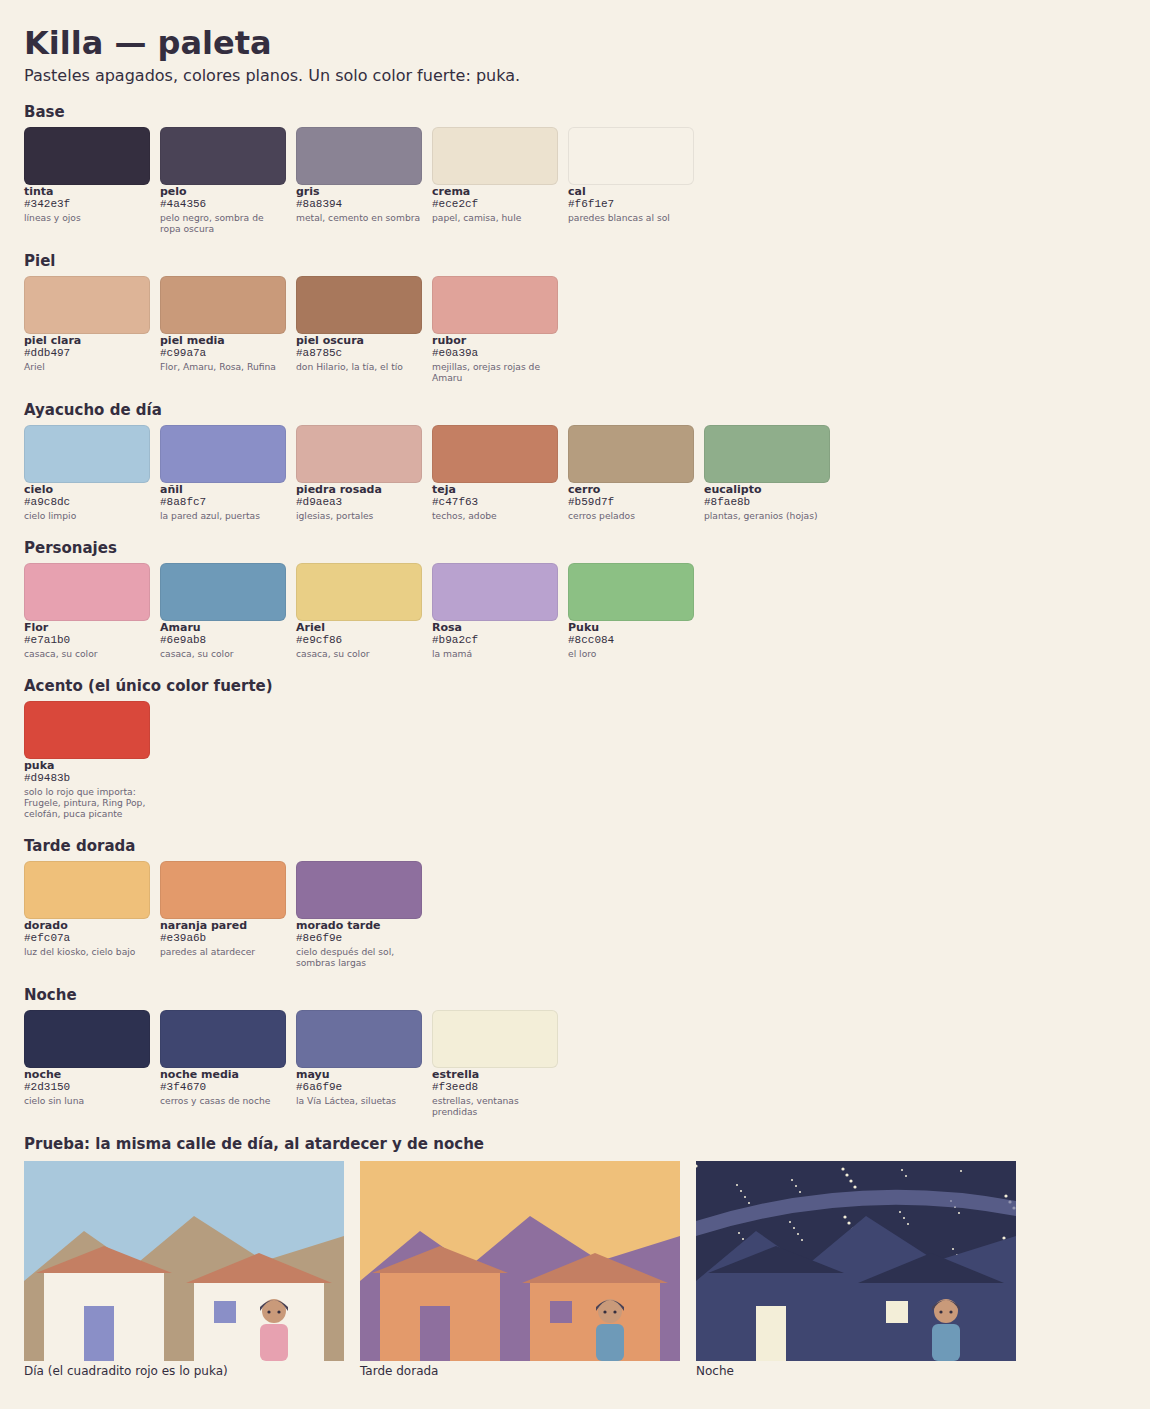
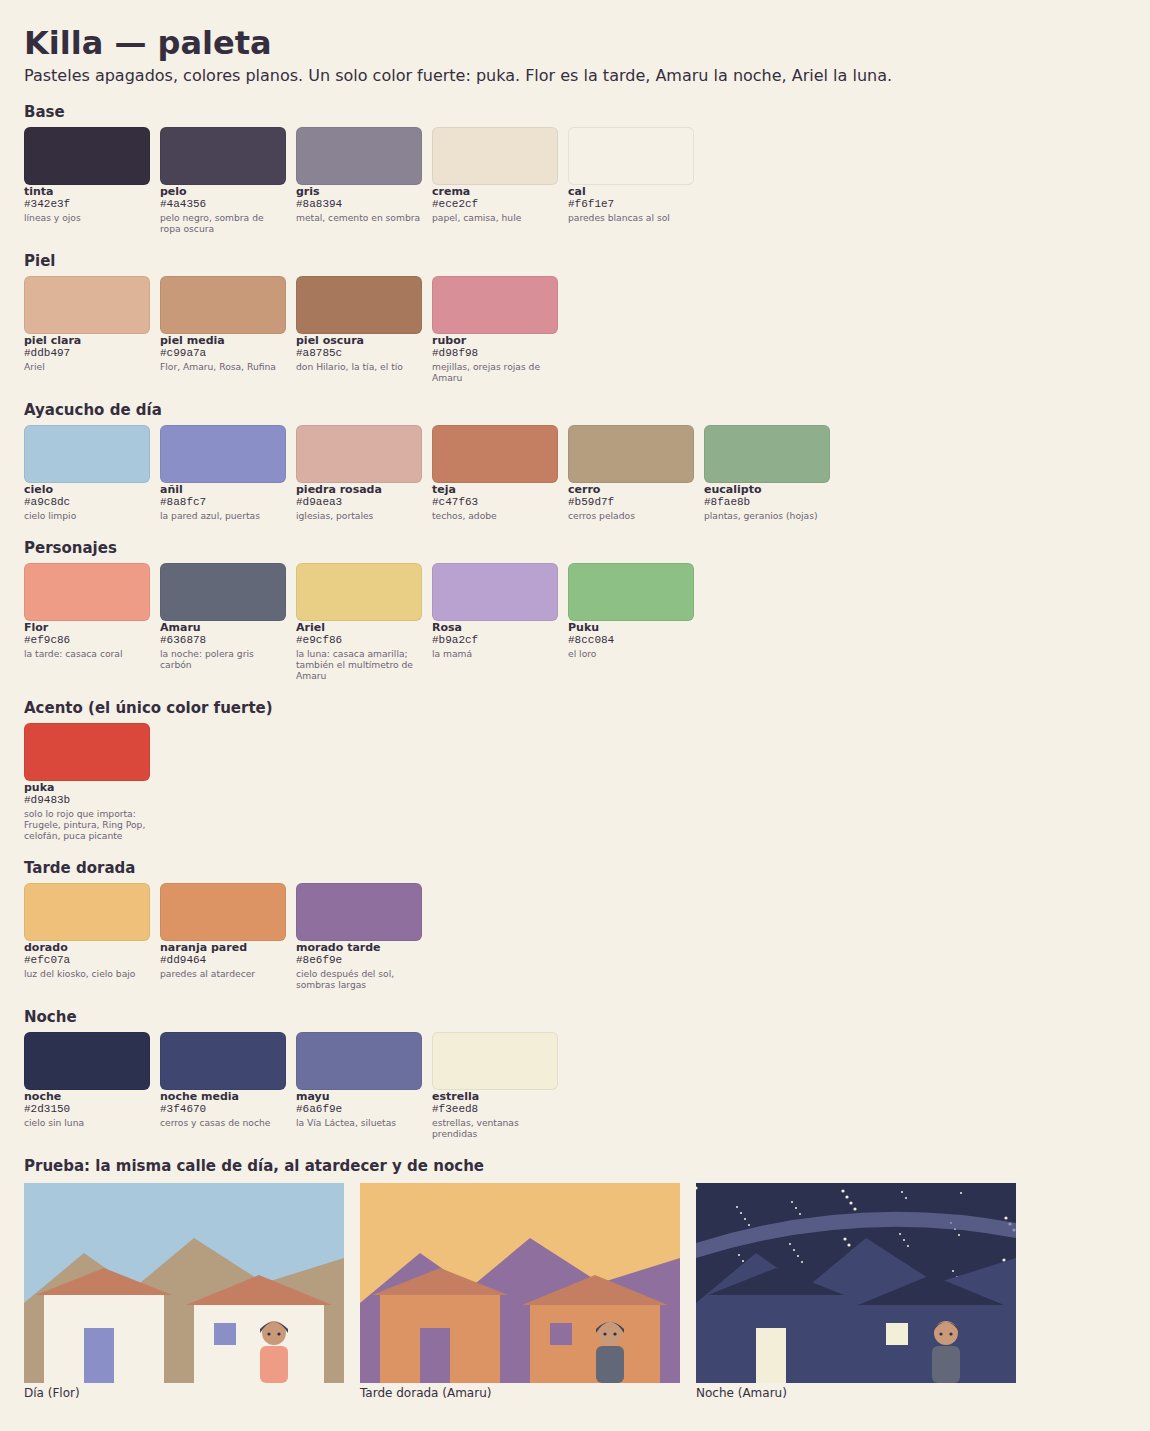
Diseño: Flor coral (la tarde), Amaru gris carbón (la noche), Ariel amarillo (la luna)
- Paleta actualizada (Flor, Amaru, rubor y naranja pared).
- Fichas de Flor y Amaru con rasgos fijos nuevos: cola alta, casaca con
  franjas, bolsa con flor bordada; polera con canguro, multímetro, curita.
- Colores de nombre en el diálogo y en el mapa actualizados.

diff --git a/js/datos/personajes.js b/js/datos/personajes.js
@@ -9,8 +9,8 @@
 // =====================================================================
 const PERSONAJES = {
   ariel:    { nombre: 'Ariel',        color: '#f2d16b', tono: 320, onda: 'square' },
-  flor:     { nombre: 'Flor',         color: '#ff8fb1', tono: 520, onda: 'square' },
-  amaru:    { nombre: 'Amaru',        color: '#7fb3ff', tono: 190, onda: 'triangle', velocidad: 34 },
+  flor:     { nombre: 'Flor',         color: '#ffa58c', tono: 520, onda: 'square' },
+  amaru:    { nombre: 'Amaru',        color: '#aab3c6', tono: 190, onda: 'triangle', velocidad: 34 },
   mama:     { nombre: 'Mamá',         color: '#c9a2ff', tono: 380, onda: 'sine' },
   puku:     { nombre: 'Puku',         color: '#5ad65a', tono: 900, onda: 'sawtooth', velocidad: 18 },
   hilario:  { nombre: 'Don Hilario',  color: '#b0a080', tono: 150, onda: 'triangle', velocidad: 40 },

diff --git a/js/datos/mapas.js b/js/datos/mapas.js
@@ -91,8 +91,8 @@ const MAPAS = {
       { id: 'salida', x: 10, y: 14, ancho: 4, alto: 1, color: '#222', etiqueta: '↓ al kiosko', pisar: true, ir: 'kiosko_barrio' },
     ],
     personajes: [
-      { id: 'flor', x: 8, y: 7, color: '#ff8fb1', etiqueta: 'Flor', sprite: 'assets/img/sprites/flor.png', accion: 'casa_flor' },
-      { id: 'amaru', x: 18, y: 9, color: '#7fb3ff', etiqueta: 'Amaru', sprite: 'assets/img/sprites/amaru.png', accion: 'casa_amaru' },
+      { id: 'flor', x: 8, y: 7, color: '#ef9c86', etiqueta: 'Flor', sprite: 'assets/img/sprites/flor.png', accion: 'casa_flor' },
+      { id: 'amaru', x: 18, y: 9, color: '#636878', etiqueta: 'Amaru', sprite: 'assets/img/sprites/amaru.png', accion: 'casa_amaru' },
     ],
   },
 };

diff --git a/FICHAS-DE-PERSONAJE.md b/FICHAS-DE-PERSONAJE.md
@@ -29,7 +29,8 @@ Regla del encuadre del busto (220 × 260): la cabeza en el tercio superior, homb
 ## ARIEL (jugador) — `ariel`
 
 - 18 años, limeño, hijo único, sabático, postulando a EE. UU. Palabras: **observador, nervioso, con humor callado**.
-- Rasgos fijos: casaca (la que "los hace pensar que es gringo"), celular en la mano, botella de agua del kiosko en varias escenas, cara redonda "de Ayacucho" con corte y ropa de Lima. Color de acento del juego: `#f2d16b`.
+- Rasgos fijos: casaca (la que "los hace pensar que es gringo"), celular en la mano, botella de agua del kiosko en varias escenas, cara redonda "de Ayacucho" con corte y ropa de Lima.
+- Color: **la luna**. Casaca amarilla `#e9cf86` (paleta en `arte/paleta/`). En el diálogo su nombre va en `#f2d16b`.
 - Base: postura recta pero rígida, como quien no sabe dónde poner las manos. Ojos grandes: es el que mira.
 - Tics: juntar los dedos índice (tu idea, va en `nervioso`), inclinarse hacia adelante cuando quiere saber algo, mano en el pecho cuando se asusta.
 - NO hace: gestos grandes. Sus emociones son chicas; la cámara está en su cabeza.
@@ -50,7 +51,15 @@ Regla del encuadre del busto (220 × 260): la cabeza en el tercio superior, homb
 ## FLOR — `flor` (Flor Miski María Quispe Ccori)
 
 - 19, ayacuchana, entra a la PUCP en marzo. Palabras: **expansiva, maestra, chismosa con cariño**.
-- Rasgos fijos: casaca rosada con el **cierre a medio subir** (siempre a la misma altura), pelo negrísimo, misma forma de cara que Amaru, "sonríe con toda la cara". Acento `#ff8fb1`.
+- Color: **la tarde**. Coral apagado `#ef9c86`, no rosa (rosa y azul con Amaru se leía cursi). Su momento es la azotea al atardecer. En el diálogo su nombre va en `#ffa58c`.
+- Rasgos fijos (5, no más: se redibujan en cada busto):
+  1. **Cola alta**, pelo negrísimo. Se mueve: en `risa` y `sorpresa` puede inclinarse o saltar sin redibujar la cabeza.
+  2. **Casaca deportiva coral con franjas a los costados** (franjas color `crema`), con el **cierre a medio subir** (siempre a la misma altura).
+  3. **Mangas largas y un poco grandes**: esconde las manos en `flor_rojo` y se seca la cara con la manga en la azotea.
+  4. **Bolsa de tela** con las cosas para grabar el video (celular, el "trípode que es una barra de plástico"), con **una flor bordada**. Es su accesorio de flor: chiquito, no una flor en el pelo.
+  5. Misma forma de cara que Amaru; "sonríe con toda la cara".
+- Abajo: **jeans y botines** (hace frío; de noche, dos grados). Solo se ven en el sprite y en los cuadros; los bustos se cortan en la cintura, así que no le gastes tiempo.
+- Nada de trenzas por ahora: el arco de Flor es su miedo a que en Lima le digan "chola", y las trenzas cargan ese estereotipo antes de que ella hable. Si aparecen, que sea a propósito (la abuelita, un recuerdo).
 - Base: el cuerpo nunca está derecho: cadera a un lado, cabeza ladeada. Ocupa espacio.
 - Tics: agarrarte del brazo, dedo índice pedagógico, taparse la boca con las dos manos.
 - NO hace: quedarse quieta ni mirar al piso (eso es de Amaru; solo lo hace en `molesto` a propósito, copiándolo).
@@ -73,7 +82,15 @@ Regla del encuadre del busto (220 × 260): la cabeza en el tercio superior, homb
 ## AMARU — `amaru` (Jorge Amaru Jesús Quispe Ccori)
 
 - 17 (18 en noviembre), academia, va a postular a electrónica aunque diga que no. Palabras: **seco, preciso, tímido que se pone rojo**.
-- Rasgos fijos: polera negra, **manos en los bolsillos** (es su rasgo número uno: en la mayoría de bustos las manos no se ven), pelo negrísimo, orejas visibles (para ponerlas rojas). Acento `#7fb3ff`.
+- Color: **la noche**. Gris carbón `#636878`: contrasta con el coral de Flor en vez de hacer pareja rosa/azul. Su ruta es el parque y las estrellas. En el diálogo su nombre va en `#aab3c6`.
+- Rasgos fijos (5):
+  1. **Polera gris carbón con capucha y bolsillo canguro**, **manos en el bolsillo** (su rasgo número uno: en la mayoría de bustos las manos no se ven, que es lo más caro de dibujar).
+  2. **El multímetro amarillo** (el aparato con que mide si un cable tiene corriente) asomando del bolsillo: "se cuelga el multímetro al bolsillo". Es el único punto de color vivo en su ropa, y usa el amarillo de Ariel.
+  3. **Una curita en un dedo**: quien suelda se quema las yemas con el cautín. Se ve cuando saca la mano (`seria`, `rojo`, `facepalm`). En la nariz o la mejilla se leería como "el chico peleador", y Amaru no pelea.
+  4. Pelo negrísimo, un poco desordenado; **orejas visibles** (para ponerlas rojas).
+  5. Misma forma de cara que Flor, con las cejas más rectas y la boca más chica.
+- Abajo: **buzo (jogger) y zapatillas gastadas** tipo Converse. No jean rasgado: Amaru no piensa en su ropa, y el buzo es para agacharse con el cable. Solo se ve en el sprite y en los cuadros.
+- Sin guantes. Si te gustan, solo como detalle de noche en el parque, por el frío.
 - Base: hombros un poco encogidos, mirando al piso, boca recta. Se comunica con la cabeza y las cejas, no con los brazos.
 - Tics: pasarse la mano por la nuca, ponerse rojo hasta las orejas, resoplar por la nariz.
 - NO hace: sonreír con toda la boca (su sonrisa es "media, en una esquina, detrás de tres puertas"). No abre los brazos.
@@ -89,6 +106,7 @@ Regla del encuadre del busto (220 × 260): la cabeza en el tercio superior, homb
 | `amaru_sorpresa` | cabeza levantada rápido, cejas arriba, boca entreabierta, manos saliendo de los bolsillos |
 | extra `amaru_facepalm` | **las dos manos por la cara** (tu idea; "se pasa las dos manos por la cara y las deja ahí un momento") |
 | extra `amaru_espaldas` | de espaldas, sin entrar a la casa: solo nuca y hombros, orejas rojas asomando |
+| extra `amaru_estano` | igual que `neutral` pero con **una mancha negra en la mejilla** y el pelo parado de un lado ("es humo de estaño"): el patio de la ruta de Flor |
 | extra `amaru_risa` | echado para atrás, risa "oxidada" con la boca abierta: la única vez que se ríe fuerte (la pizza con piña). Guárdala para ese momento |
 
 ## Secundarios (un busto base y una o dos variaciones)

diff --git a/LISTA-DE-ARTE.md b/LISTA-DE-ARTE.md
@@ -24,7 +24,7 @@ Reglas que sirven en los dos casos:
 
 - **PNG con fondo transparente** para bustos y sprites. Fondos y cuadros pueden ser PNG o JPG.
 - **Dibuja al doble (2×) y exporta al tamaño final** si es línea: 440 × 520 para un busto, 1920 × 1200 para un fondo. Si es pixel, dibuja al tamaño exacto y NO reescales con suavizado.
-- Paleta chica y compartida entre personajes (8–16 colores) para que Flor, Amaru y Ariel parezcan del mismo mundo. Colores base que ya usa el juego para las etiquetas (cámbialos en `personajes.js` si quieres): Ariel `#f2d16b`, Flor `#ff8fb1`, Amaru `#7fb3ff`, Mamá `#c9a2ff`, Puku `#5ad65a`.
+- Paleta chica y compartida entre personajes para que Flor, Amaru y Ariel parezcan del mismo mundo: está en `arte/paleta/` (muestras en PNG, `killa.swatches` para Procreate, `killa.gpl` para Krita, GIMP y Aseprite). Flor es la tarde (coral `#ef9c86`), Amaru la noche (gris carbón `#636878`), Ariel la luna (amarillo `#e9cf86`). Los nombres en el diálogo usan versiones más claras para leerse sobre la caja negra: Ariel `#f2d16b`, Flor `#ffa58c`, Amaru `#aab3c6`, Mamá `#c9a2ff`, Puku `#5ad65a`.
 - Recuerda el momento de cada escena: **sol blanquísimo + frío**, luz de contraste alto, sombras duras. Eso puede ser tu marca visual de Ayacucho frente a Lima gris.
 
 ---

diff --git a/LEEME.md b/LEEME.md
@@ -177,7 +177,7 @@ Ejemplo de exploración: el guion hace `@explorar plaza`. En `mapas.js`, el kios
 ## 5. Personajes (`js/datos/personajes.js`)
 
 ```js
-flor: { nombre: 'Flor', color: '#ff8fb1', tono: 520, onda: 'square' },
+flor: { nombre: 'Flor', color: '#ffa58c', tono: 520, onda: 'square' },
 ```
 
 - `tono`: frecuencia del "beep" al hablar (más alto = más agudo). `onda`: `square`, `triangle`, `sine`, `sawtooth`.
